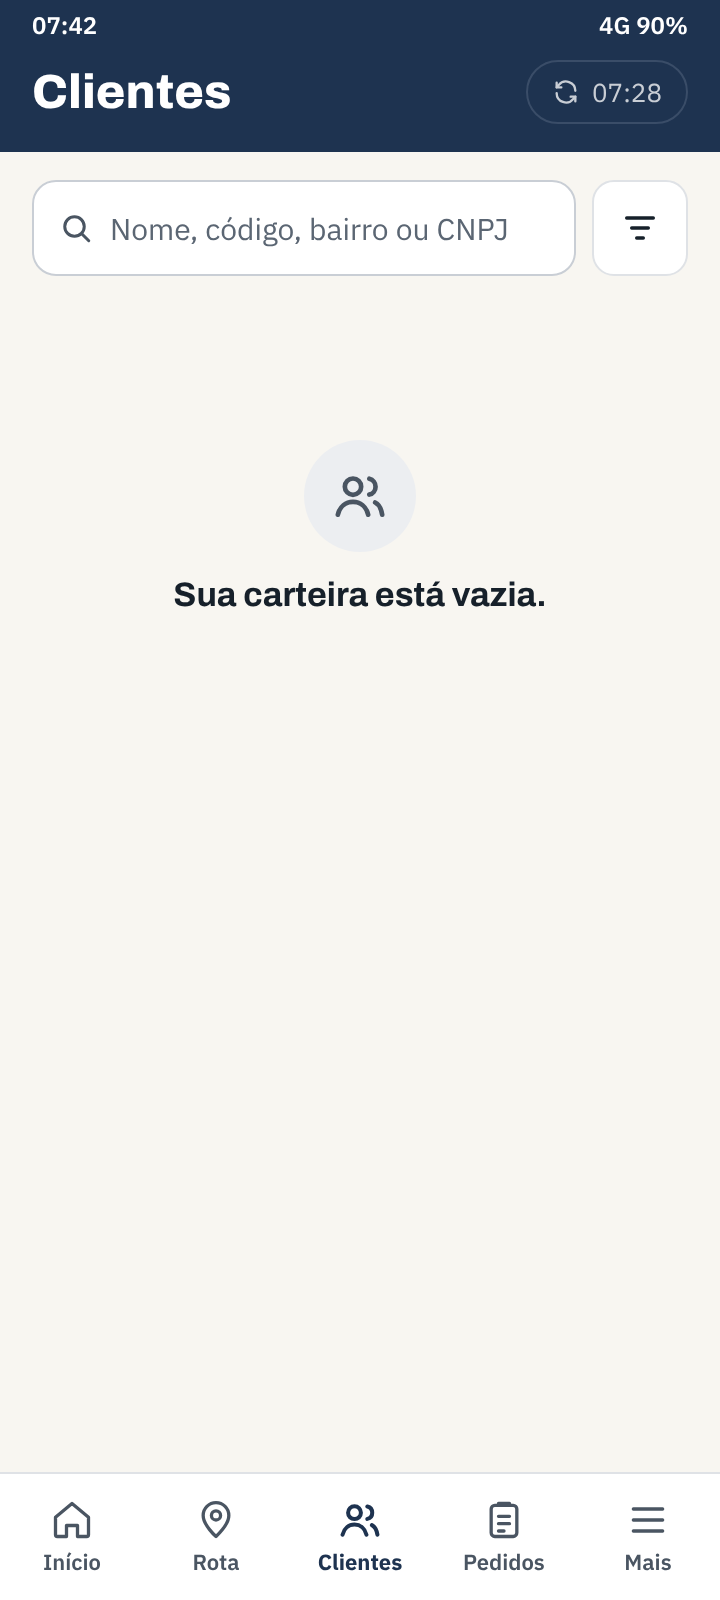
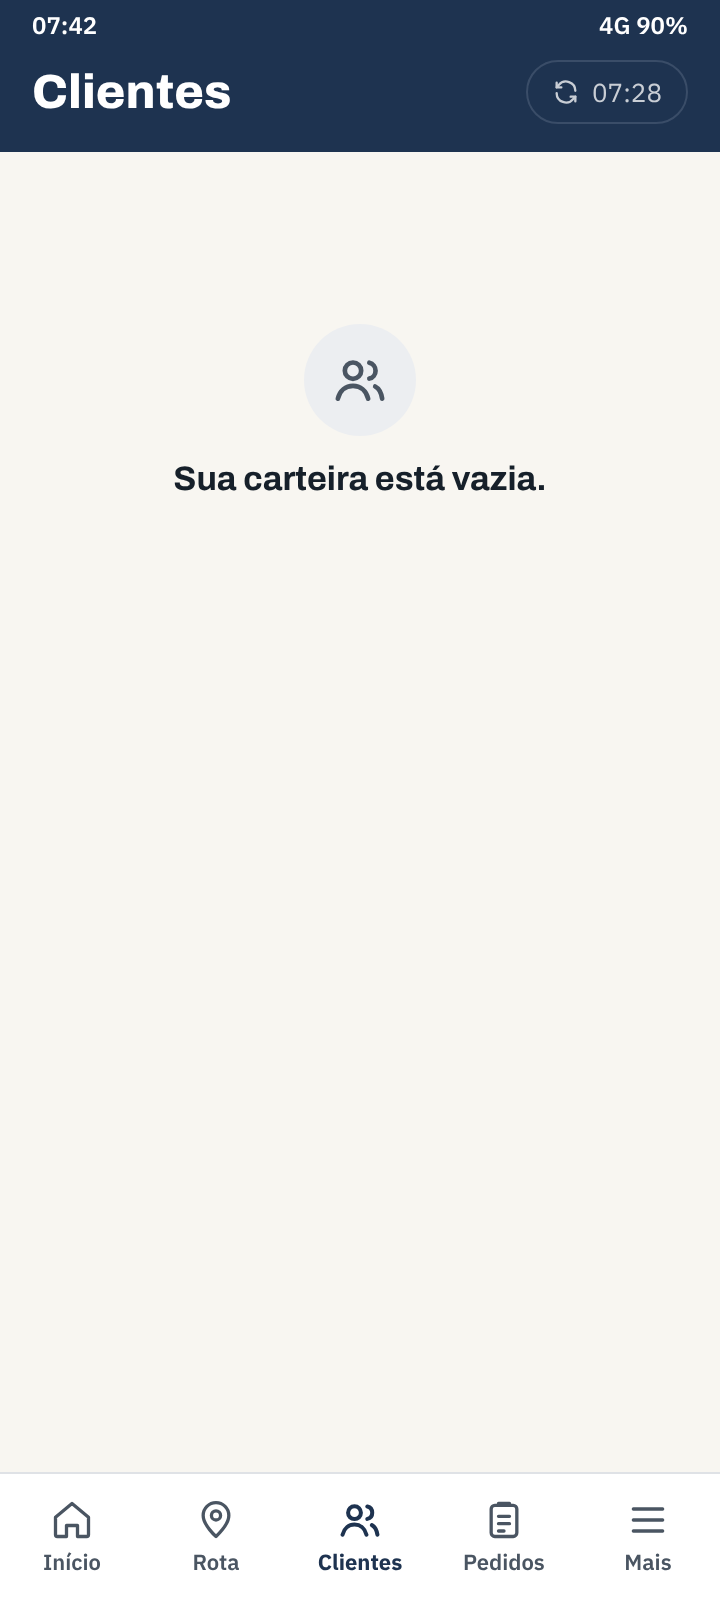
docs(design): Clientes com a carteira vazia sem busca nem filtro (RD-0504)
Com a carteira vazia, a tela mostra só "Sua carteira está vazia.": a
linha de busca e o botão de filtro saem. PNG e spec atualizados.

Agente: designer-ux
Claude-Session: https://claude.ai/code/session_0157qAhm1f7x6WWVnUm3N773

diff --git a/docs/design/filtro-padrao-campo/filtro-padrao-campo.html b/docs/design/filtro-padrao-campo/filtro-padrao-campo.html
@@ -135,12 +135,11 @@
 
 <!-- C3 · Clientes com a carteira vazia -->
 <div class="tela" data-v="clientes-vazia">
-  <div class="legenda">C3 · Clientes, carteira vazia<span>Uma frase só; a de filtro fica para quando há filtro ou busca.</span></div>
+  <div class="legenda">C3 · Clientes, carteira vazia<span>Uma frase só, sem busca nem filtro (não há o que buscar).</span></div>
   <div class="phone">
     <div class="status"><span>07:42</span><span>4G 90%</span></div>
     <div class="fx"><div class="lin"><div><span class="t">Clientes</span></div><span class="selo-fx"><i data-i="sync" data-t="14"></i>07:28</span></div></div>
     <div class="corpo">
-      <div class="lbusca"><div class="busca"><i data-i="search" data-t="18" data-c="#4A5562"></i>Nome, código, bairro ou CNPJ</div><div class="fbtn"><i data-i="filtro" data-t="20"></i></div></div>
       <div class="vazio-e"><span class="ic"><i data-i="users" data-t="28" data-c="#4A5562"></i></span><span class="vt">Sua carteira está vazia.</span></div>
     </div>
     <div class="barra-abas" data-ativa="clientes"></div>

diff --git a/docs/design/filtro-padrao-campo/spec.md b/docs/design/filtro-padrao-campo/spec.md
@@ -41,7 +41,8 @@
 - A etiqueta da situação marcada no filtro não se repete nas linhas (RD-0500): com `Devendo`, a linha mostra o nome, "Visitado
   há…" e o ›. Com 2 situações marcadas, a linha mostra a que a distingue.
 - **Carteira vazia** (RD-0501, modulo-core): `EstadoVazio` com o ícone `users` e uma frase só, `Sua carteira está vazia.`; o
-  subtítulo `0 na carteira` sai, porque diz o mesmo. `Nenhum cliente com esses filtros.` fica só quando há filtro ou busca.
+  subtítulo `0 na carteira` sai, porque diz o mesmo, e a linha de busca e o filtro também saem (RD-0504): não há o que
+  buscar nem filtrar. `Nenhum cliente com esses filtros.` fica só quando há filtro ou busca.
 
 ## 4. Performance
 - A linha própria do filtro sai. `Segmentado` (Resultados · Produtividade, `flex: 1`) e `BotaoFiltro` na mesma linha, `gap: 8`.
